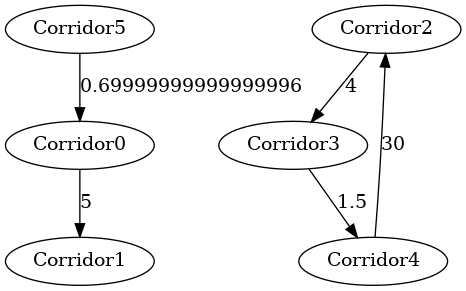
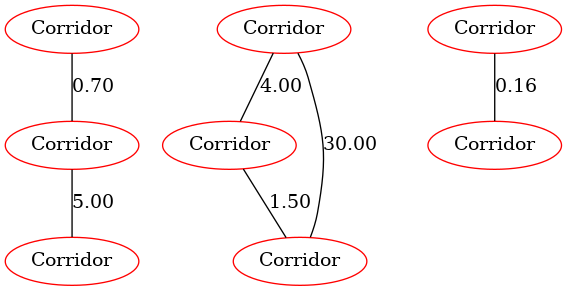
Graph Export Improvements

diff --git a/src/conceptual_map.cpp b/src/conceptual_map.cpp
@@ -3,28 +3,25 @@
 namespace semantic_mapping
 {
 
+
+
+
 Conceptual_Map::Conceptual_Map()
 {
   int i;
   for (i = 0; i < 6; i++) {
-    add_vertex(Semantic_Graph);
+    boost::add_vertex(Semantic_Graph);
   }
-  vertices(Semantic_Graph);
+  boost::vertices(Semantic_Graph);
 
-  add_edge(0, 1, {5, 1}, Semantic_Graph);
-  add_edge(2, 3, {2, 2}, Semantic_Graph);
-  add_edge(3, 4, {3, 0.5}, Semantic_Graph);
-  add_edge(4, 2, {10, 3}, Semantic_Graph);
-  add_edge(5, 0, {7, 0.1}, Semantic_Graph);
+  boost::add_edge(0, 1, {5, 1}, Semantic_Graph);
+  boost::add_edge(2, 3, {2, 2}, Semantic_Graph);
+  boost::add_edge(3, 4, {3, 0.5}, Semantic_Graph);
+  boost::add_edge(4, 2, {10, 3}, Semantic_Graph);
+  boost::add_edge(5, 0, {7, 0.1}, Semantic_Graph);
 
-  std::vector<double> edge_cost;
-  auto map_distances = get(&EdgeData::distance, Semantic_Graph);
-  auto map_mod = get(&EdgeData::modifier, Semantic_Graph);
-  auto map_cost = get(&EdgeData::cost, Semantic_Graph);
-  auto epair = edges(Semantic_Graph);
-  for (auto iter = epair.first; iter != epair.second; iter++) {
-    put(map_cost, *iter, round(get(map_distances, *iter) * get(map_mod, *iter)*100)/100);
-  }
+  this->add_vertex();
+  this->add_vertex();
 
   this->export_TopoGraph("TopoGraph");
 }
@@ -34,34 +31,72 @@ Conceptual_Map::~Conceptual_Map()
 {
 }
 
+void Conceptual_Map::add_vertex(void)  // Must receive current position as parameter
+{
+  if (current_vertex == NULL) {
+    size_t idx = boost::add_vertex(
+      {
+        0,
+        Concept(),
+        boost::container::list<Concept>()
+      },
+      Semantic_Graph
+    );
+    current_vertex = &(Semantic_Graph[idx]);
+  } else {
+    size_t idx = boost::add_vertex(
+      {
+        current_vertex->index + 1,
+        Concept(),
+        boost::container::list<Concept>()
+      },
+      Semantic_Graph
+    );
+    previous_vertex = current_vertex;
+    current_vertex = &(Semantic_Graph[idx]);
+
+    double v1 = 10 * rand() / (RAND_MAX * 1.0), v2 = rand() / (RAND_MAX * 1.0);
+    boost::add_edge(
+      _get_boost_index(previous_vertex), idx,
+      {
+        v1,
+        v2
+      },
+      Semantic_Graph);
+  }
+}
+
 void Conceptual_Map::export_TopoGraph(const std::string & f_name)
 {
-  int i;
   const std::string path = "src/semantic_mapping/Outputs/";
   std::ofstream dotfile(path + f_name + ".dot");
 
-
-  // Vertex
-  auto map_vertex = get(&VertexData::this_thing,Semantic_Graph);
-
-  const int n_vertex = Semantic_Graph.m_vertices.size();
-
-  std::string *vertex_name = new std::string[n_vertex];
-  for(i = 0; i < n_vertex; i++){
-    vertex_name[i] = map_vertex[i].get_label()+std::to_string(i);
-  }
-
   write_graphviz(
     dotfile, Semantic_Graph,
-    boost::make_label_writer(vertex_name),
-    boost::make_label_writer(get(&EdgeData::cost, Semantic_Graph))
+    make_vertex_label_writer(boost::get(&VertexData::this_thing, Semantic_Graph)),
+    make_cost_label_writer(boost::get(&EdgeData::distance, Semantic_Graph),boost::get(&EdgeData::modifier, Semantic_Graph))
   );
 
-  if(std::system(("dot -Tpng " + path + f_name + ".dot > " + path + f_name + ".png").c_str()) == 0){
-    if(std::system(("rm " + path + f_name + ".dot").c_str()) == 0)
-      std::cout << "[Export Complete] png file successfully exported to: "+path + f_name + ".png" << std::endl;
+  if (std::system(("dot -Tpng " + path + f_name + ".dot > " + path + f_name + ".png").c_str()) ==
+    0)
+  {
+    if (std::system(("rm " + path + f_name + ".dot").c_str()) == 0) {
+      std::cout << "[Export Complete] png file successfully exported to: \n\t" + path + f_name +
+          ".png" << std::endl;
+    }
   }
 
+}
+
+
+inline size_t Conceptual_Map::_get_boost_index(VertexData * ptr)
+{
+  auto v_pair = boost::vertices(Semantic_Graph);
+  size_t idx = 0;
+  for (auto iter = v_pair.first; iter != v_pair.second; iter++, idx++) {
+    if (&(Semantic_Graph[*iter].index) == &(ptr->index)) {break;}
+  }
+  return idx;
 }
 
 }  // namespace semantic_mapping

diff --git a/include/semantic_mapping/conceptual_map.hpp b/include/semantic_mapping/conceptual_map.hpp
@@ -11,6 +11,8 @@
 #include <string>
 
 #include "../include/semantic_mapping/concept.hpp"
+#include "../include/semantic_mapping/label_writers.hpp"
+
 
 namespace semantic_mapping
 {
@@ -20,10 +22,7 @@ struct VertexData
   const long index = 0;
   Concept this_thing;
   boost::container::list<Concept> related_things;
-  // boost::vertex_color_t color = boost::default_color_type::red_color;
 };
-
-
 
 struct EdgeData
 {
@@ -31,24 +30,47 @@ struct EdgeData
   // 
   const double distance = 0; 
   double modifier = 1;
-  double cost = 0;
+
+  double get_cost(void){
+    return round(distance*modifier*100)/100.0;
+  }
 };
 
-typedef boost::adjacency_list<boost::vecS, boost::vecS, boost::directedS, VertexData, EdgeData> TopoMap;
+typedef boost::adjacency_list<boost::vecS, boost::vecS, 
+                              boost::undirectedS,
+                              VertexData,
+                              EdgeData
+                              > TopoMap;
 
 class Conceptual_Map
 {
 public:
+  VertexData *current_vertex = NULL;
+  VertexData *previous_vertex = NULL;
+
   TopoMap Semantic_Graph;
 
   Conceptual_Map();
 
   virtual ~Conceptual_Map();
 
+  void add_vertex();
+
   void export_ThingsGraph(const std::string &f_name);
 
   void export_TopoGraph(const std::string &f_name);
+
+private:
+  inline size_t _get_boost_index(VertexData* ptr);
 };
+
+
+
+
+
+
+
+
 
 }  // namespace semantic_mapping
 

diff --git a/include/semantic_mapping/label_writers.hpp b/include/semantic_mapping/label_writers.hpp
@@ -1,0 +1,59 @@
+#ifndef LABEL_WRITERS_HPP_
+#define LABEL_WRITERS_HPP_
+
+template<class Name>
+class vertex_label_writer
+{
+public:
+  vertex_label_writer(Name vertex_map)
+  : name(vertex_map) {}
+  template<class VertexOrEdge>
+  void operator()(std::ostream & out, const VertexOrEdge & v) const
+  {
+    std::pair<std::string,std::string> g_pair = get(name, v).get_vertex_representation();
+    out << "[label=" << boost::escape_dot_string(g_pair.first) << ",color=\""+g_pair.second+"\"]";
+  }
+
+private:
+  Name name;
+};
+template<class Name>
+inline vertex_label_writer<Name>
+make_vertex_label_writer(Name n)
+{
+  return vertex_label_writer<Name>(n);
+}
+
+
+//////////////////////////////
+
+
+template<class Name_1, class Name_2>
+class cost_label_writer
+{
+public:
+  cost_label_writer(Name_1 p1,Name_2 p2)
+  : prop1(p1), prop2(p2) {}
+  template<class VertexOrEdge>
+  void operator()(std::ostream & out, const VertexOrEdge & v) const
+  {
+    char buf[16];
+    sprintf(buf, "%6.2f",round((boost::get(prop1, v) * boost::get(prop2, v) * 100)) / 100);
+    out << "[label=" << 
+      std::string(buf)
+     << "]";
+  }
+
+private:
+  Name_1 prop1;
+  Name_2 prop2;
+};
+template<class Name_1, class Name_2>
+inline cost_label_writer<Name_1,Name_2>
+make_cost_label_writer(Name_1 n1,Name_2 n2)
+{
+  return cost_label_writer<Name_1,Name_2>(n1,n2);
+}
+
+
+#endif  // LABEL_WRITERS_HPP_

diff --git a/src/concept.cpp b/src/concept.cpp
@@ -15,4 +15,8 @@ std::string Concept::get_label(void){
   return std::string("Corridor");
 }
 
+std::pair<std::string,std::string> Concept::get_vertex_representation(){
+  return std::pair<std::string,std::string>(std::string("Corridor"),std::string("red"));
+}
+
 }  // namespace semantic_mapping

diff --git a/include/semantic_mapping/concept.hpp b/include/semantic_mapping/concept.hpp
@@ -27,6 +27,8 @@ public:
 
   std::string get_label();
 
+  std::pair<std::string,std::string> get_vertex_representation();
+
 };
 
 }  // namespace semantic_mapping

diff --git a/Documentation/Documentation.md b/Documentation/Documentation.md
@@ -1,0 +1,38 @@
+# Conceptual_Map
+
+Class responsible to create a interface to the TopoMap (Graph Map) and the Concepts associated with each Vertex
+
+## TopoMap (Graph Map)
+
+The graph was implemented using the Boost Adjacent List library.
+
+Boost adjacency_list: https://www.boost.org/doc/libs/1_55_0/libs/graph/doc/adjacency_list.html
+
+Additions to the data stored in the TopoMap can be done in the structures that defines the Vertices and Edges.
+
+### VertexData
+
+VertexData:\
+|  const long index = 0;\
+|  Concept this_thing;\
+|  boost::container::list<Concept> related_things;
+
+
+- index: Index of the vertice
+- this_thing: Is the concept of the current Vertice. Should be a semantic_type::Location
+- related_things: Linked list of Concepts detected while in the current Vertex Location
+
+Boost Container: https://www.boost.org/doc/libs/1_80_0/doc/html/container.html
+
+### EdgeData
+
+EdgeData:\
+|  const double distance = 0;\
+|  double modifier = 1;\
+|  double cost = 0;
+
+- distance: Distance between Vertices
+- modifier: Modifier utilized to determine the cost of traversing this edge
+- cost: distance*modifier
+
+# Concept
